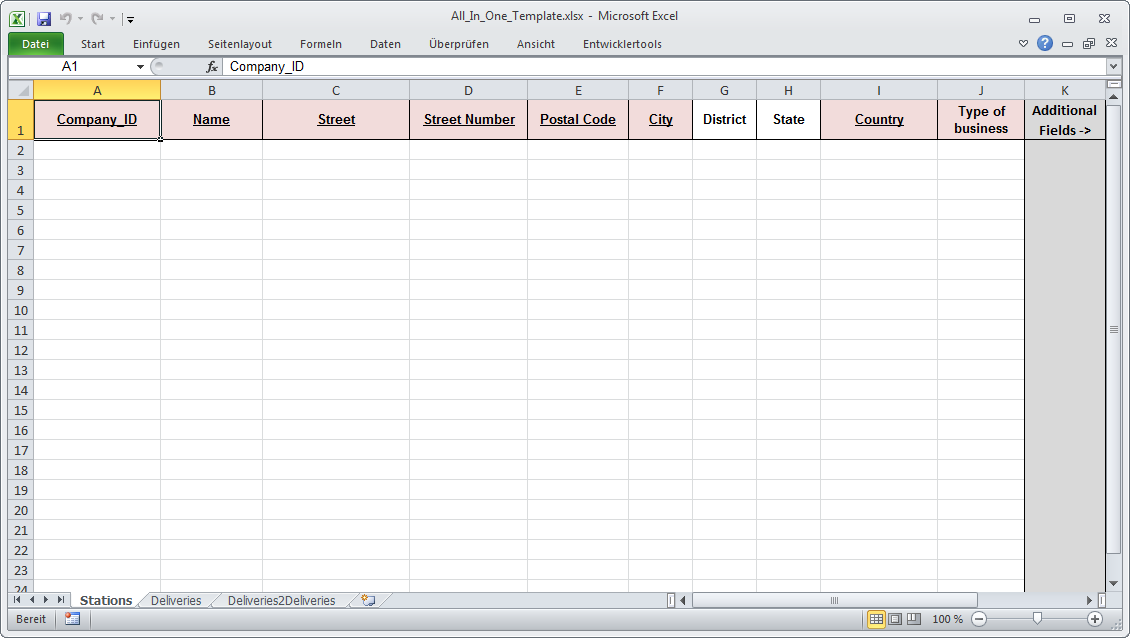
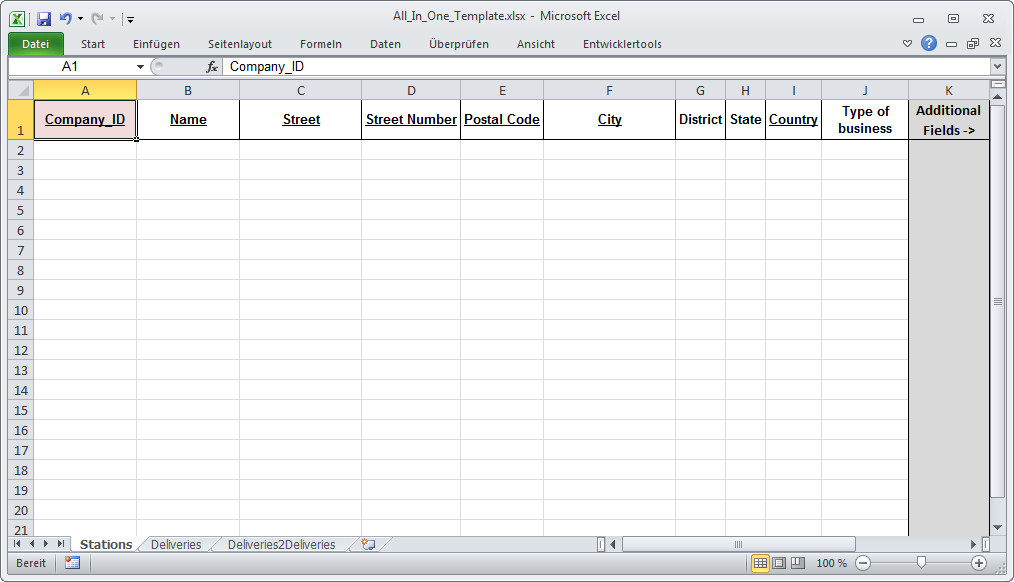
all-in-one template tutorial updated

Changed region(s): [[0.0, 0.0, 1.0, 0.9897]]

diff --git a/GitHubPages/documents/foodchainlab_datatemplate/datatemplate.tex b/GitHubPages/documents/foodchainlab_datatemplate/datatemplate.tex
@@ -30,7 +30,7 @@
 	\begin{itemize}
 		\item Open \textbf{All\_In\_One\_Template.xlsx} and select the \textbf{Stations} sheet.
 		\item Here you must enter all stations of the delivery network.
-		\item The columns with the red header are predefined and some of them are mandatory.
+		\item The \textbf{Company\_ID} column is mandatory, all other columns are optional.
 		\item Next to \textbf{Additional Fields} you can specify your own columns, for which you would like to enter data.
 	\end{itemize}
 \end{frame}
@@ -38,12 +38,13 @@
 \section{2}
 \begin{frame}
 	\begin{center}
-  		\includegraphics[height=0.6\textheight]{2.png}
+  		\includegraphics[height=0.5\textheight]{2.png}
 	\end{center}
 	\begin{itemize}
 		\item Now select the \textbf{Deliveries} sheet.
 		\item Here you must enter all deliveries between the stations defined in the previous sheet.
-		\item
+		\item The columns with the red headers are mandatory. In \textbf{Station} and \textbf{Recipient} you must enter \textbf{Company\_IDs} from the previous sheet.
+		\item Next to \textbf{Additional Fields} you can specify your own columns, for which you would like to enter data.
 	\end{itemize}
 \end{frame}
 
@@ -53,7 +54,9 @@
   		\includegraphics[height=0.6\textheight]{3.png}
 	\end{center}
 	\begin{itemize}
-		\item
+		\item Now select the \textbf{Deliveries2Deliveries} sheet.
+		\item Here you can connect two deliveries from the previous sheet. In both columns you must enter \textbf{DeliveryIDs}.
+		\item The \textbf{From}-delivery is a part/ingredient of the \textbf{To}-delivery. A contamination can spread from "\textbf{From}" to "\textbf{To}".
 	\end{itemize}
 \end{frame}
 
@@ -70,7 +73,7 @@
 \section{5}
 \begin{frame}
 	\begin{center}
-  		\includegraphics[height=0.6\textheight]{5.png}
+  		\includegraphics[height=0.5\textheight]{5.png}
 	\end{center}
 	\begin{itemize}
 		\item
